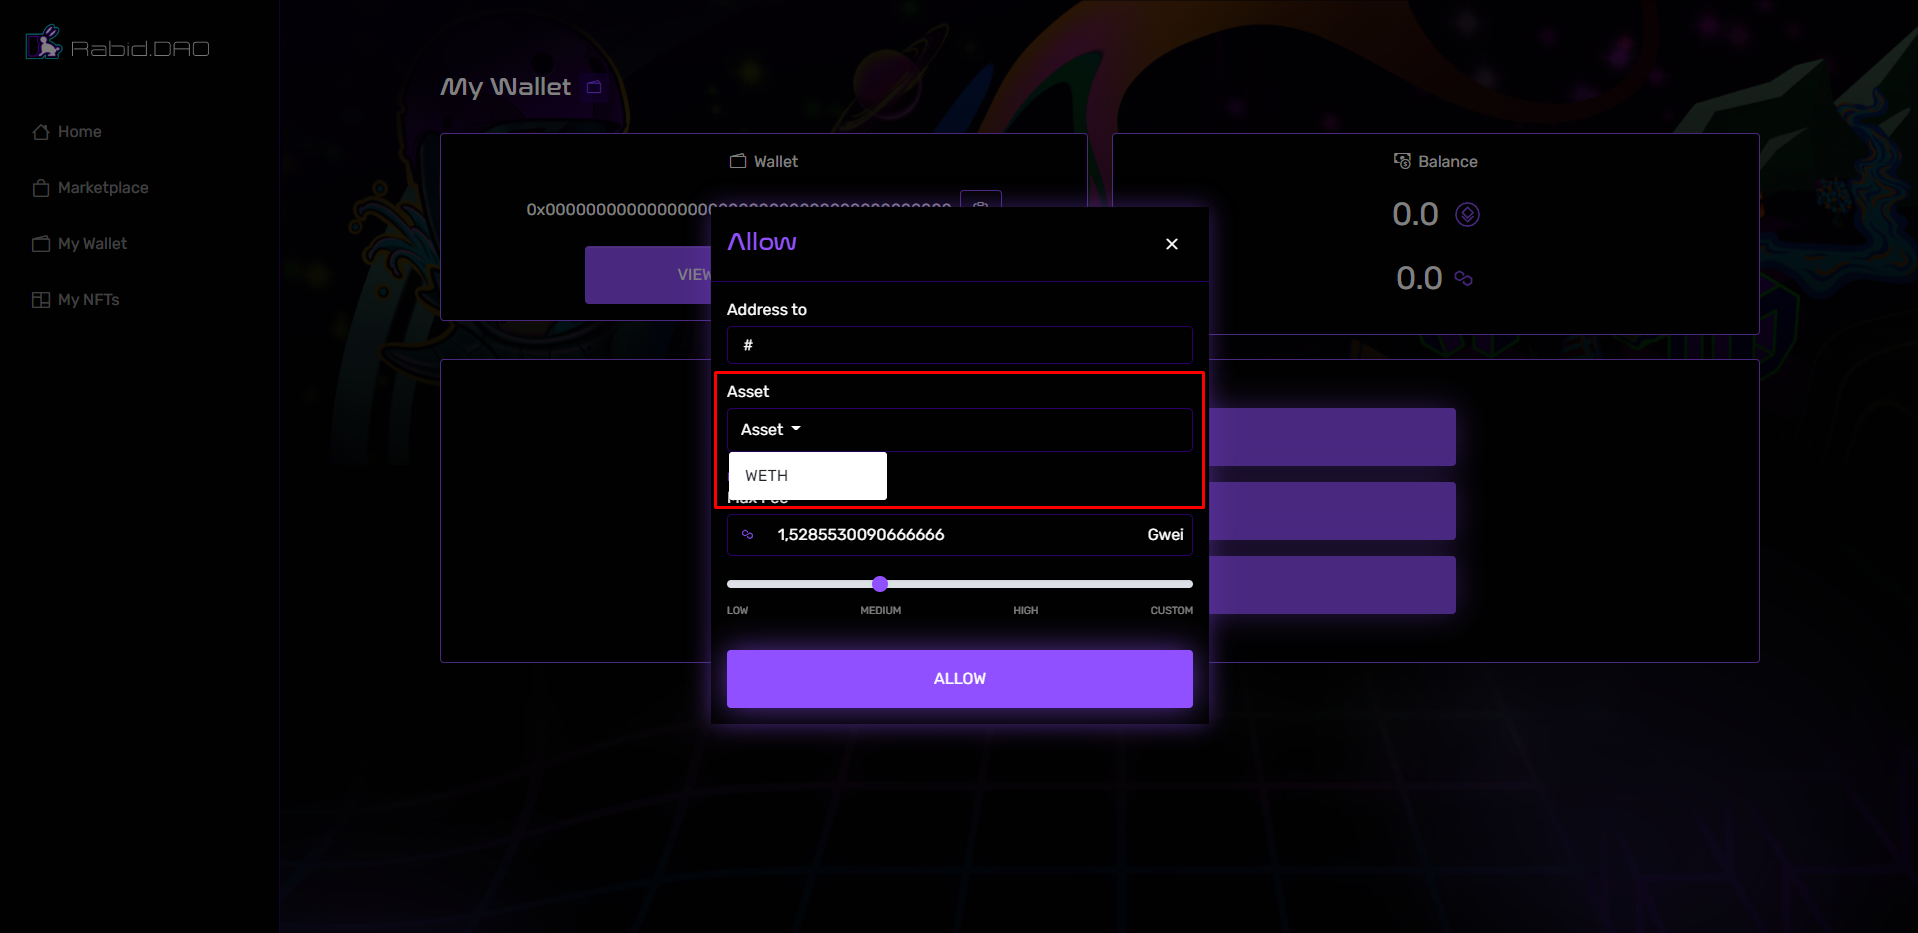
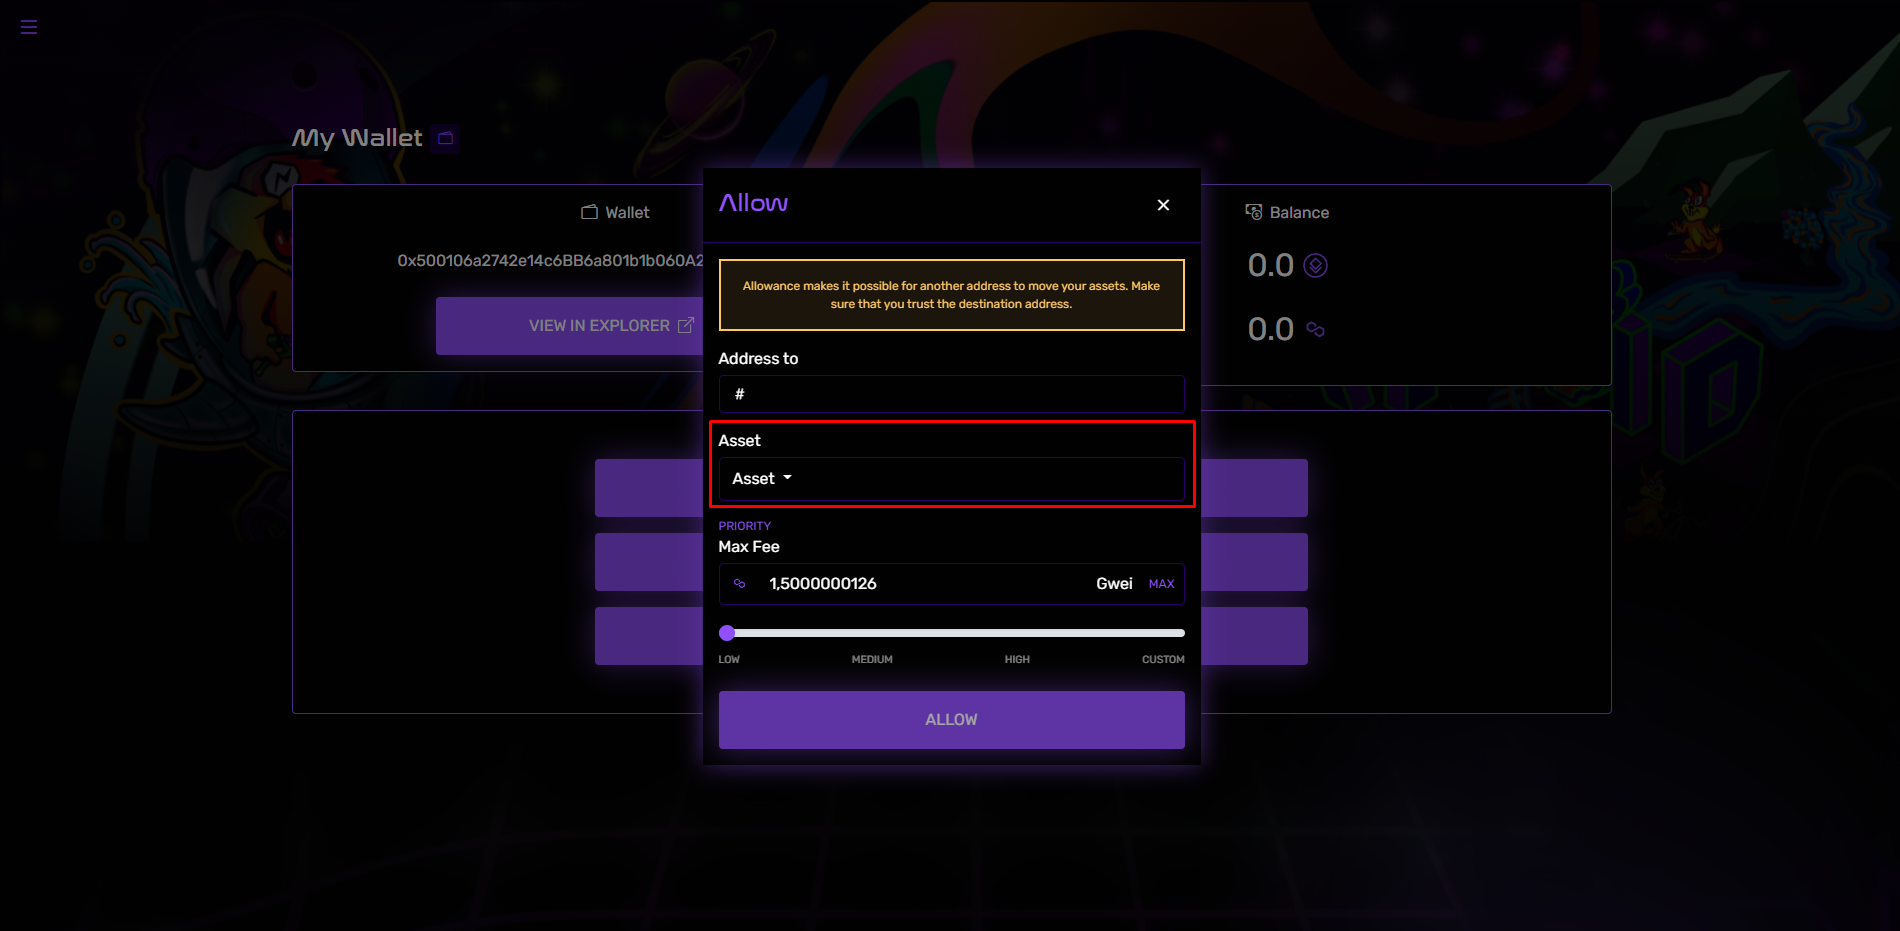
update

diff --git a/docs/user-manual/wallet.md b/docs/user-manual/wallet.md
@@ -18,6 +18,12 @@ sidebar_position: 2
 
 ### 2. Scan the QR Code with your external wallet to send funds
 
+:::caution CONNECT THE NETWORK
+
+Deposits are made through the Polygon Network. Make sure you are depositing MATIC and WETH while connected to that network.
+
+:::
+
 ![img](/img/deposit2.png)
 
 ## HOW TO TRANSFER?
@@ -49,6 +55,12 @@ Based on the fee to be paid, the transaction will be completed faster or slower.
 ![img](/img/transfer5.png)
 
 ## HOW TO ALLOW OTHER ADDRESS?
+
+:::caution ALLOWANCE
+
+Allowance makes it possible for another address to move your assets. Make sure that you trust the destination address.
+
+:::
 
 ### 1. Click in **ALLOW ERC20**
 

diff --git a/docs/user-manual/nft.md b/docs/user-manual/nft.md
@@ -16,6 +16,12 @@ sidebar_position: 4
 
 ### 3. Click in **BUY NOW**
 
+:::info WHITELIST
+
+To buy the NFTs, you must be on the whitelist. You must contact Rabid to be whitelisted.
+
+:::
+
 :::caution NFT VALUE
 
 You must have the necessary amount to buy the NFT.
